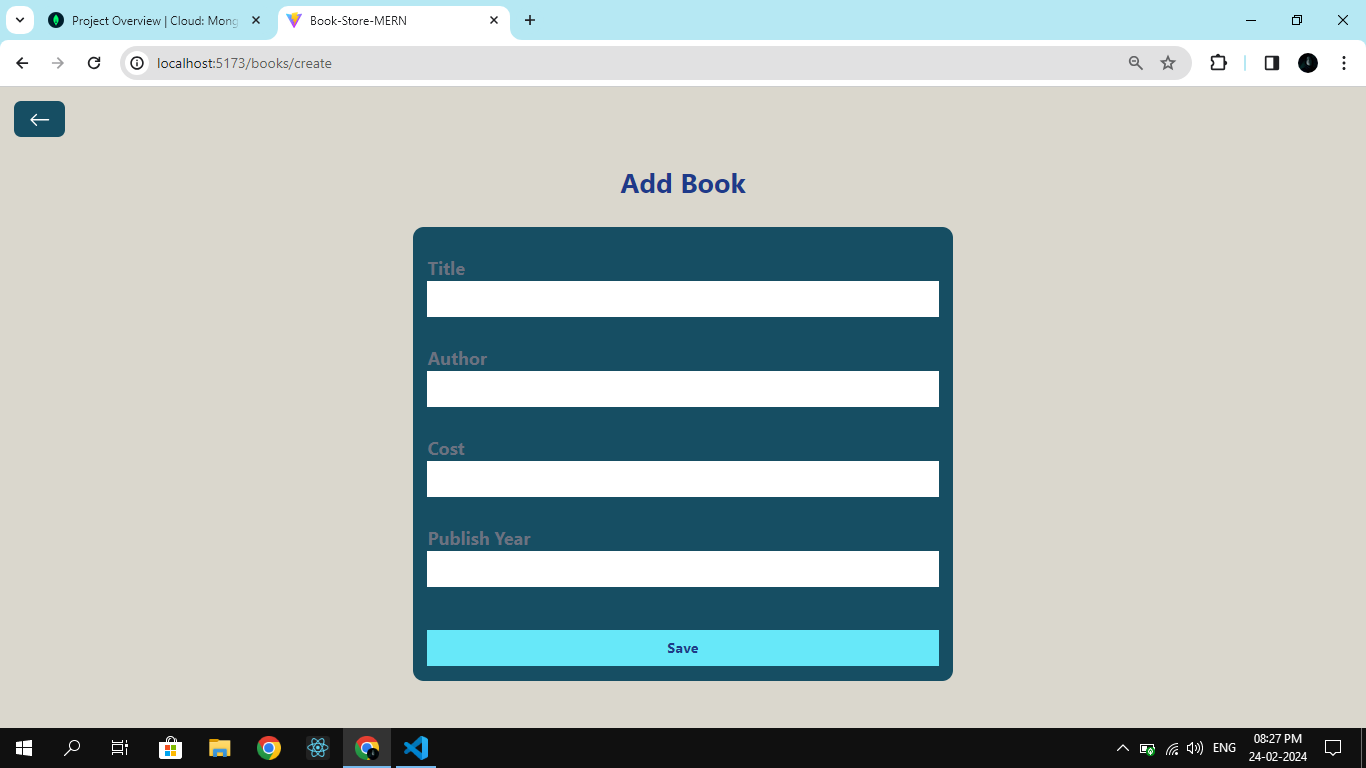
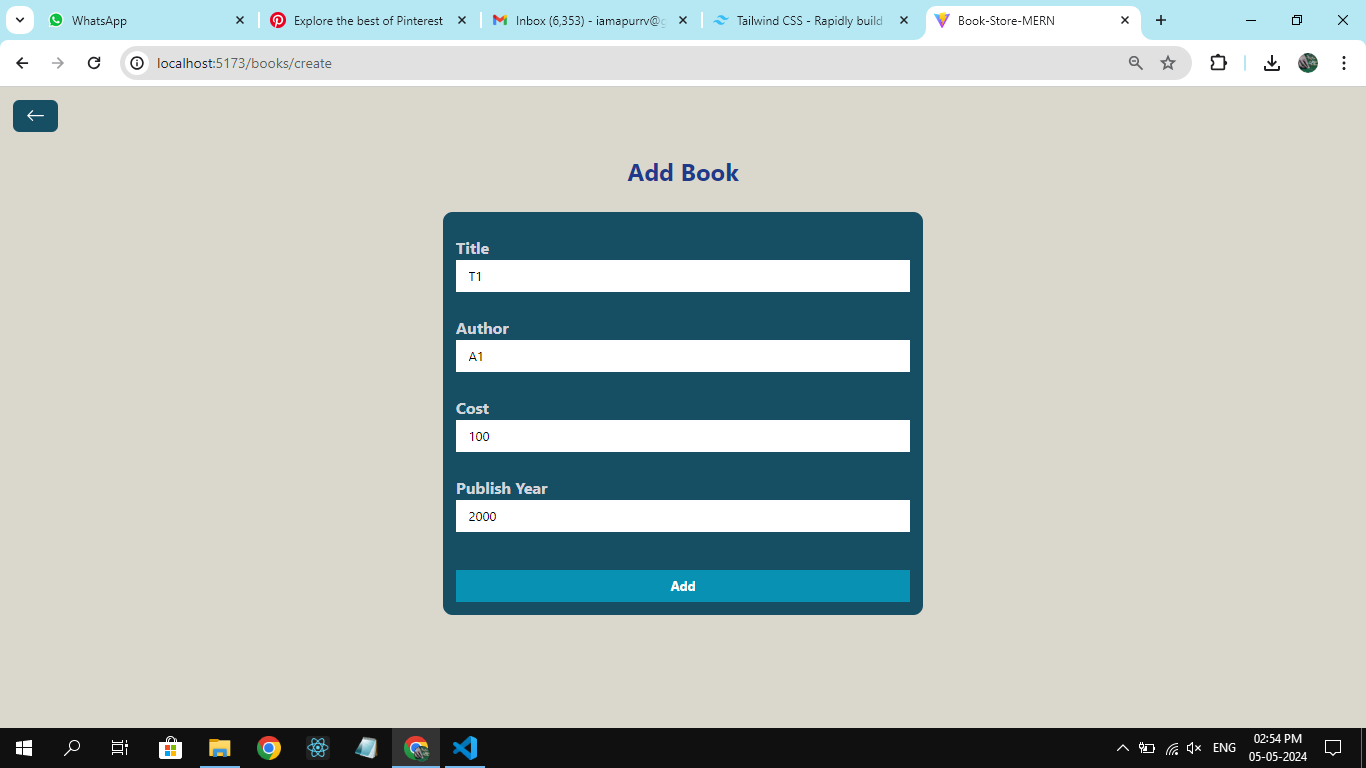
updated

diff --git a/frontend/src/pages/Home.jsx b/frontend/src/pages/Home.jsx
@@ -45,7 +45,7 @@ const Home = () => {
             <IoMdAddCircle className='text-3xl ml-2' />
           </div>
         </Link> */}
-        <Link to='/books/create' className=' bg-cyan-900 text-white px-1 py-1 mr-2 rounded-lg hover:bg-cyan-300 hover:text-blue-900'>
+        <Link to='/books/create' className='px-1 py-1 mr-2 rounded-lg hover:bg-cyan-900 hover:text-white'>
           <div className="flex items-center text-center rounded-lg py-2">
             <div className="w-3/4">
               <h1 className="text-lg font-bold">

diff --git a/frontend/src/pages/EditBook.jsx b/frontend/src/pages/EditBook.jsx
@@ -82,7 +82,7 @@ const EditBook = () => {
           <input type='number' value={publishYear} onChange={(e) => setPublishYear(e.target.value)} className='px-4 py-2 w-full' />
         </div>
 
-        <button className='p-2 bg-cyan-300 mt-8 font-bold text-blue-900' onClick={handleEditBook}>Update</button>
+        <button className='p-2 bg-cyan-300 mt-8 font-bold text-blue-900 hover:bg-cyan-600 hover:text-white' onClick={handleEditBook}>Update</button>
 
       </div>
 

diff --git a/frontend/src/pages/AddBook.jsx b/frontend/src/pages/AddBook.jsx
@@ -65,7 +65,7 @@ const AddBook = () => {
           <input type='number' value={publishYear} onChange={(e) => setPublishYear(e.target.value)} className='px-4 py-2 w-full' />
         </div>
 
-        <button className='p-2 bg-cyan-300 mt-8 font-bold text-blue-900' onClick={handleSaveBook}>Add</button>
+        <button className='p-2 bg-cyan-300 mt-8 font-bold text-blue-900 hover:bg-cyan-600 hover:text-white' onClick={handleSaveBook}>Add</button>
 
       </div>
 
